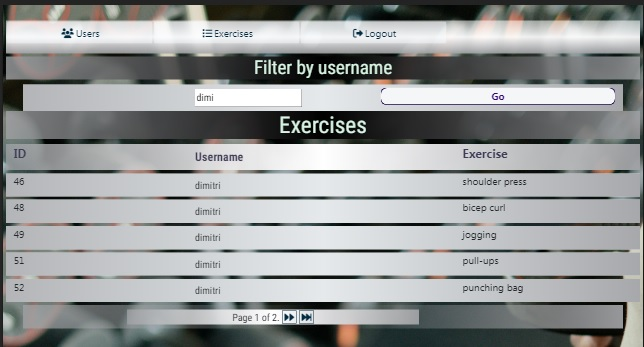
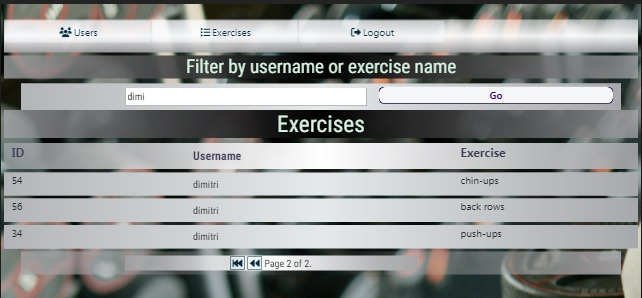
Add manual testing scenarios to README.MD

diff --git a/workout_app/templates/index.html b/workout_app/templates/index.html
@@ -75,42 +75,31 @@
             <li>
                 In the top left corner is an editable field with the name of the workout. In the figure below the name
                 of the workout is
-                <em>chest and shoulders</em>. In the left column below the name you will see the name of the exercise
+                <em>Go jogging in the park</em>. In the left column below the name you will see the name of the exercise
                 that you chose to
-                start out with. In the illustraition below the name of the exercise is <em>shoulder press</em>. Now you
+                start out with. In the illustraition below the name of the exercise is <em>jogging</em>. Now you
                 will probebly want to
-                start doing the shoulder press and capture how many sets of how many repetitions, with how much weight
-                you did. To do that press on
-                <span class="url-link"><i class="fa-solid fa-pen-to-square"></i>Edit</span>, that is in the column next
+                start jogging and time how long it took you to run a certain distance. To do that press on
+                <b>Edit</b>, that is in the column next
                 to the name of the exercise. <br>
-                <img src="{% static '/img/edit_workout.png' %}" alt="Image of page for editting workout"
+                <img src="{% static '/img/manual/edit_workout.jpg' %}" alt="Image of page for editting workout"
                     style="width: 300px;">
             </li>
             <li>
                 Now you see a new page as illustrated below. <br>
-                <img src="{% static '/img/edit_exercise_set_strength_1.png' %}" alt="Image of page for editting workout"
+                <img src="{% static '/img/manual/edit_workout_exercise_jogging.jpg' %}" alt="Image of page for editting workout"
                     style="width: 300px;"><br>
-                Let us say, you did 8 reps with 100 kg, just like in the figure above. Now press on <spann
-                    class="url-link wo-button">
-                    <i class="fa-solid fa-circle-plus"></i> Add
-                </spann>
+                You can use the timer to time it. Once you finish running, stop the timer, enter the distance 
+                and press on <b>Add</b>
             </li>
             <li>
                 Now you see that this set has been documented. And you can proceed to the next one.<br>
-                <img src="{% static '/img/edit_exercise_set_strength_2.png' %}" alt="Image of page for editting workout"
+                <img src="{% static '/img/manual/edit_workout_exercise_jogging_results_2.jpg' %}" alt="Image of page for editting workout"
                     style="width: 300px;">
             </li>
             <li>
-                Once you are through with the shoulder press, you might want to do another exercise. Let us say it is
-                going to be the bench press.<br>
-                Click on <span class="url-link wo-button"><i class="fa-solid fa-circle-left"></i>Cancel</span>. It will
-                take you back to the <em>Edit Workout</em> page.
-                Now select the bench press from the list of exercises and press on <spann class="url-link wo-button"><i
-                        class="fa-solid fa-circle-plus"></i> Add</spann> jsut
-                like shown in the illustration below.<br>
-                <img src="{% static '/img/edit_workout_add_exercise.png' %}" alt="Image of page for editting workout"
-                    style="width: 300px;">
-            </li>
+                If you want to keep the screen on during exercising, just turn on <b>Keep SCREEN AWAKE</b> check-box.
+            </li>            
         </ol>
     </article>
 </div>

diff --git a/admin_app/templates/admin_exercise_list.html b/admin_app/templates/admin_exercise_list.html
@@ -5,13 +5,13 @@
 {% endblock title %}
 
 {% block content %}
-<h2>Filter by username</h2>
+<h2>Filter by username or exercise name</h2>
 <form method="POST">
     {% csrf_token %}
     <div class="container centered-text">
         <div class="row data-row">
             <div class="col-5 offset-2">
-                <input id="search_user" type="text" name="search_user" value="{{ search_user }}" maxlength="50" placeholder="!Filter username or exercise name?">
+                <input id="search_user" type="text" class="input-field" name="search_user" value="{{ search_user }}" maxlength="50" placeholder="!Filter username or exercise name?">
             </div>
             <div class="col">
                 <input type="submit" value="Go" class="wo-button" style="margin-top: 5px;">

diff --git a/workout_app/templates/workout_list.html b/workout_app/templates/workout_list.html
@@ -21,7 +21,7 @@
             <span class="date-field">{{ report.date |date:"M d, y" }}</span>
         </div>
         <div class="col-7 centered-text" style="display:inline-block;">
-            <a class="url-link"" href=" {% url 'edit_workout' report.workout_id %}"><i
+            <a class="url-link workout-name"" href=" {% url 'edit_workout' report.workout_id %}"><i
                     class="fa-solid fa-pen-to-square"></i>{{report.name }}</a>
             {% for exercise_report in report.exercise_reports %}
             <a style="display:block;" class="url-link"

diff --git a/static/css/styles.css b/static/css/styles.css
@@ -205,3 +205,9 @@ i {
     border: 3px solid;
     border-color: transparent;
 }
+/* Name of workout in the workout_list.html */
+.workout-name {
+    font-family: 'Roboto Condensed', sans-serif;
+    font-weight: bold;
+    font-size: larger;
+}

diff --git a/README.md b/README.md
@@ -11,7 +11,7 @@ Use an Agile methodology to plan and design a Full-Stack Web application using a
 Well, **Flask is  an MVC framework!**.
 
 Only because of how **well documented** and **well organized** django is, could I learn and develop at the same time. What a **great framework!** I doff my hat!
-The actual problem, though, came up fouor days before submission, as I was already beginning to work on this README.MD file. What happened was that I learned from my mentor, that the django adminstraion sites, do not count as the real admin sites. Thus, I have to implement my own admin interface. So, I whipped up an interface, that I would not put out in the real world. It does not cover the entire scope of crud functionality for all models, yet they can be easily added later.This interface merely serves as a means to show the assesment team, that if I had planned that in, it would not have been an issue. This mishap took away a huge chunk of the time that was planned on providing a good documentation. 
+The actual problem, though, came up four days before submission, as I was already beginning to work on this README.MD file. What happened was that I learned from my mentor, that the django adminstraion sites, do not count as the real admin sites. Thus, I have to implement my own admin interface. So, I whipped up an interface, that I would not put out in the real world. It does not cover the entire scope of crud functionality for all models, yet they can be easily added later.This interface merely serves as a means to show the assesment team, that if I had planned that in, it would not have been an issue. This mishap took away a huge chunk of the time that was planned on providing a good **documentation** and a **comrehensive manaul** on the home page. This is the reason why the manual is incomplete for the time being.
 
 ## First design
 ### Wireframe
@@ -163,6 +163,48 @@ For instance, the user tries to delete an exercise named jogging from the list o
 ![Error deleting exercise](static/img/manual/errors/delete_exercise_2.jpg)
 
 **An error message is sent to the user**
+
+### Manual Testing Scenarios
+### Allauth 
+- Registration works
+- Login works
+- Logout works
+
+#### Exercise List
+- New exercises can be created
+- Validation works
+- Deleting an exercise that is already in use yields an error message to the user
+- The exercise list only shows the exercises defined by the currently logged in user
+
+#### Create Workout(Start Workout)
+- Validation in the form works
+- The workout is created acurately and the selected exercise is added to the corresponding model(WorkoutExercise)
+
+#### Workout (Edit Workout)
+- Validation works
+- Adding new exercise works
+- Confirmation dialog for deleting works
+- Deleting works
+- Renaming works
+
+#### Exercise Sets 
+This is where the actual logging of results happens
+- WakeLock works
+- Timer works properly
+- Validation not required (Fields are allowed to stay blank)
+- Deleting works (**intentionally** no confirm dialog)
+- Adding a new set works
+
+#### Workout List
+- The workout lists show up for different users correctly
+- The last workout shows up first (sorted by date)
+- The pagination works properly
+- The Confirm Delete Dialog works properly
+- The links for editting workouts work properly
+- The links for editting exercises in a given workout work properly
+#### Rerouting URL requests depnnding on user role
+- If admin signs in, they get redirected to admin-users page
+- If a user is **not** signed in, but the request a **URL** such as edit_workout/4 or something like this, they get redirected to the login page
 
 ## Bugs
 ### BUG-FIX # 1 (Not relevant anymore)
